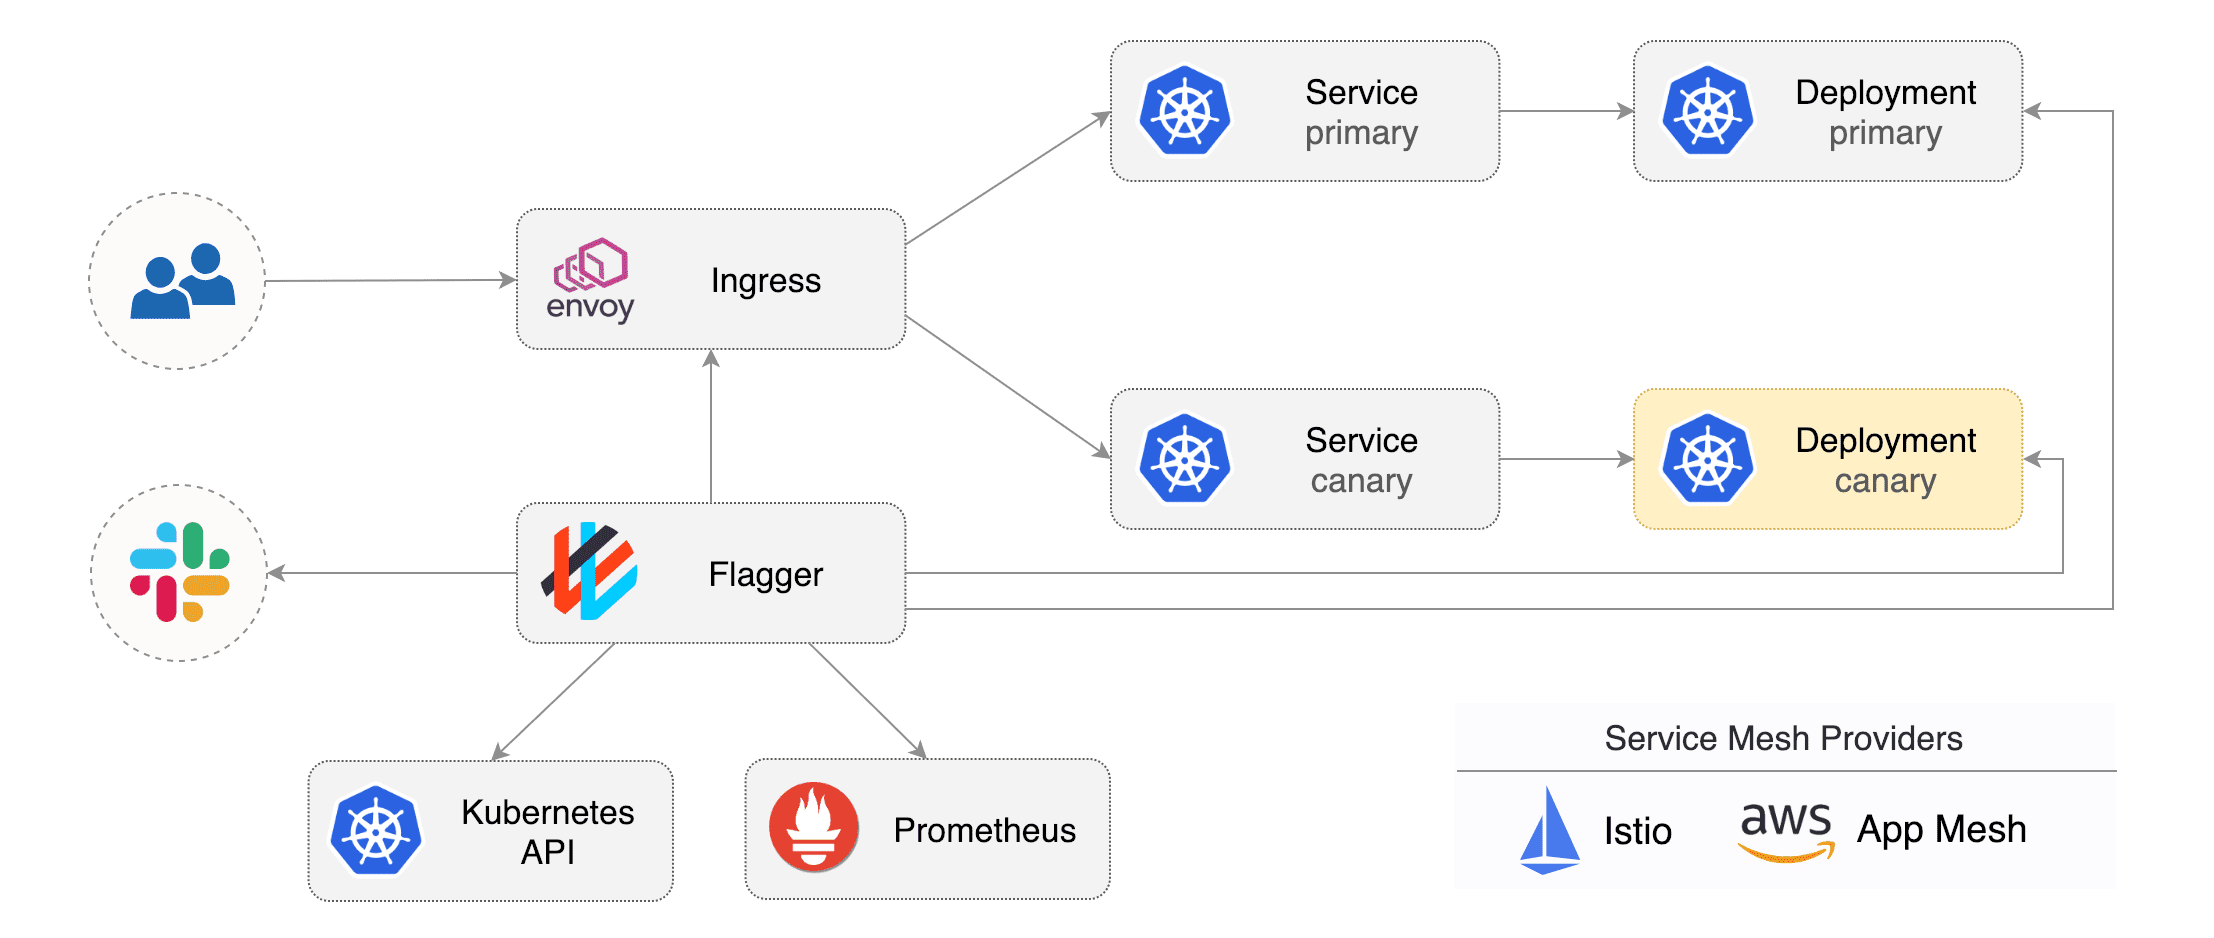
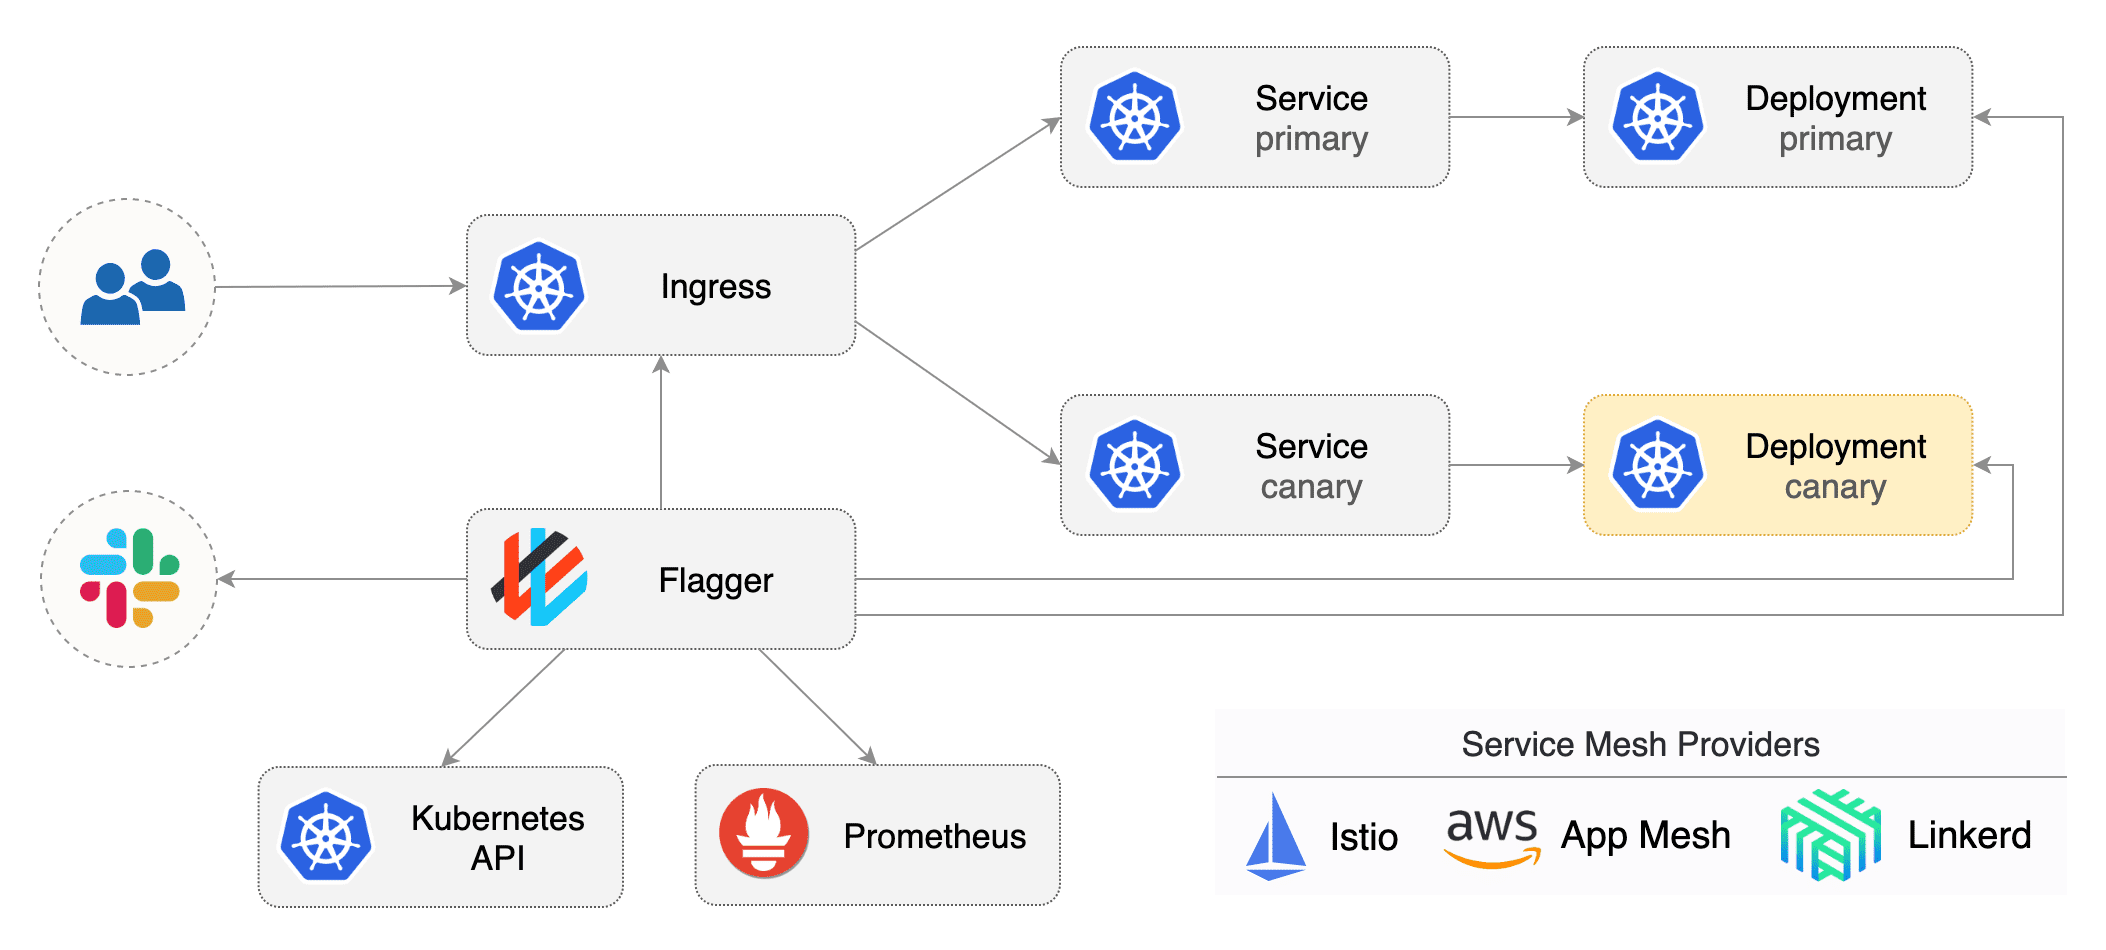
Add Linkerd to docs

diff --git a/README.md b/README.md
@@ -7,13 +7,13 @@
 [![release](https://img.shields.io/github/release/weaveworks/flagger/all.svg)](https://github.com/weaveworks/flagger/releases)
 
 Flagger is a Kubernetes operator that automates the promotion of canary deployments
-using Istio, App Mesh, NGINX or Gloo routing for traffic shifting and Prometheus metrics for canary analysis.
+using Istio, Linkerd, App Mesh, NGINX or Gloo routing for traffic shifting and Prometheus metrics for canary analysis.
 The canary analysis can be extended with webhooks for running acceptance tests,
 load tests or any other custom validation.
 
 Flagger implements a control loop that gradually shifts traffic to the canary while measuring key performance
 indicators like HTTP requests success rate, requests average duration and pods health.
-Based on analysis of the KPIs a canary is promoted or aborted, and the analysis result is published to Slack.
+Based on analysis of the KPIs a canary is promoted or aborted, and the analysis result is published to Slack or MS Teams.
 
 ![flagger-overview](https://raw.githubusercontent.com/weaveworks/flagger/master/docs/diagrams/flagger-canary-overview.png)
 
@@ -39,6 +39,7 @@ Flagger documentation can be found at [docs.flagger.app](https://docs.flagger.ap
 * Usage
   * [Istio canary deployments](https://docs.flagger.app/usage/progressive-delivery)
   * [Istio A/B testing](https://docs.flagger.app/usage/ab-testing)
+  * [Linkerd canary deployments](https://docs.flagger.app/usage/linkerd-progressive-delivery)
   * [App Mesh canary deployments](https://docs.flagger.app/usage/appmesh-progressive-delivery)
   * [NGINX ingress controller canary deployments](https://docs.flagger.app/usage/nginx-progressive-delivery)
   * [Gloo ingress controller canary deployments](https://docs.flagger.app/usage/gloo-progressive-delivery)
@@ -155,19 +156,19 @@ For more details on how the canary analysis and promotion works please [read the
 
 ## Features
 
-| Feature                                      | Istio              | App Mesh           | NGINX              | Gloo               |
-| -------------------------------------------- | ------------------ | ------------------ |------------------  |------------------  |
-| Canary deployments (weighted traffic)        | :heavy_check_mark: | :heavy_check_mark: | :heavy_check_mark: | :heavy_check_mark: |
-| A/B testing (headers and cookies filters)    | :heavy_check_mark: | :heavy_minus_sign: | :heavy_check_mark: | :heavy_minus_sign: |
-| Webhooks (acceptance/load testing)           | :heavy_check_mark: | :heavy_check_mark: | :heavy_check_mark: | :heavy_check_mark: |
-| Request success rate check (L7 metric)       | :heavy_check_mark: | :heavy_check_mark: | :heavy_check_mark: | :heavy_check_mark: |
-| Request duration check (L7 metric)           | :heavy_check_mark: | :heavy_minus_sign: | :heavy_check_mark: | :heavy_check_mark: |
-| Custom promql checks                         | :heavy_check_mark: | :heavy_check_mark: | :heavy_check_mark: | :heavy_check_mark: |
-| Traffic policy, CORS, retries and timeouts   | :heavy_check_mark: | :heavy_minus_sign: | :heavy_minus_sign: | :heavy_minus_sign: |
+| Feature                                      | Istio              | Linkerd            | App Mesh           | NGINX              | Gloo               |
+| -------------------------------------------- | ------------------ | ------------------ |------------------  |------------------  |------------------  |
+| Canary deployments (weighted traffic)        | :heavy_check_mark: | :heavy_check_mark: | :heavy_check_mark: | :heavy_check_mark: | :heavy_check_mark: |
+| A/B testing (headers and cookies filters)    | :heavy_check_mark: | :heavy_minus_sign: | :heavy_minus_sign: | :heavy_check_mark: | :heavy_minus_sign: |
+| Webhooks (acceptance/load testing)           | :heavy_check_mark: | :heavy_check_mark: | :heavy_check_mark: | :heavy_check_mark: | :heavy_check_mark: |
+| Request success rate check (L7 metric)       | :heavy_check_mark: | :heavy_check_mark: | :heavy_check_mark: | :heavy_check_mark: | :heavy_check_mark: |
+| Request duration check (L7 metric)           | :heavy_check_mark: | :heavy_minus_sign: | :heavy_check_mark: | :heavy_check_mark: | :heavy_check_mark: |
+| Custom promql checks                         | :heavy_check_mark: | :heavy_check_mark: | :heavy_check_mark: | :heavy_check_mark: | :heavy_check_mark: |
+| Traffic policy, CORS, retries and timeouts   | :heavy_check_mark: | :heavy_minus_sign: | :heavy_minus_sign: | :heavy_minus_sign: | :heavy_minus_sign: |
 
 ## Roadmap
 
-* Integrate with other service mesh technologies like Linkerd v2
+* Integrate with other ingress controllers like Contour, HAProxy, ALB
 * Add support for comparing the canary metrics to the primary ones and do the validation based on the derivation between the two
 
 ## Contributing

diff --git a/docs/gitbook/faq.md b/docs/gitbook/faq.md
@@ -6,11 +6,13 @@
 
 Flagger can run automated application analysis, promotion and rollback for the following deployment strategies:
 * Canary (progressive traffic shifting)
+    * Istio, Linkerd, App Mesh, NGINX, Gloo
 * A/B Testing (HTTP headers and cookies traffic routing)
+    * Istio, NGINX
 * Blue/Green (traffic switch)
+    * Kubernetes CNI
 
-For canary deployments you'll need a Layer 7 traffic management solution like a service mesh (Istio, App Mesh) or an ingress controller (NGINX, Gloo).
-For A/B testing you'll need a Layer 7 traffic management solution that's capable of routing requests based on HTTP headers and cookies (Istio, NGINX).
+For Canary deployments and A/B testing you'll need a Layer 7 traffic management solution like a service mesh or an ingress controller.
 For Blue/Green deployments no service mesh or ingress controller is required.
 
 **When should I use A/B testing instead of progressive traffic shifting?**

diff --git a/docs/gitbook/how-it-works.md b/docs/gitbook/how-it-works.md
@@ -2,7 +2,7 @@
 
 [Flagger](https://github.com/weaveworks/flagger) takes a Kubernetes deployment and optionally 
 a horizontal pod autoscaler \(HPA\) and creates a series of objects 
-\(Kubernetes deployments, ClusterIP services and Istio or App Mesh virtual services\) to drive the canary analysis and promotion. 
+\(Kubernetes deployments, ClusterIP services, virtual service, traffic split or ingress\) to drive the canary analysis and promotion. 
 
 ![Flagger Canary Process](https://raw.githubusercontent.com/weaveworks/flagger/master/docs/diagrams/flagger-canary-hpa.png)
 
@@ -18,7 +18,7 @@ metadata:
   namespace: test
 spec:
   # service mesh provider (optional)
-  # can be: kubernetes, istio, appmesh, smi, nginx, gloo, supergloo
+  # can be: kubernetes, istio, linkerd, appmesh, nginx, gloo, supergloo
   # use the kubernetes provider for Blue/Green style deployments
   provider: istio
   # deployment reference

diff --git a/docs/gitbook/SUMMARY.md b/docs/gitbook/SUMMARY.md
@@ -15,6 +15,7 @@
 
 * [Istio Canary Deployments](usage/progressive-delivery.md)
 * [Istio A/B Testing](usage/ab-testing.md)
+* [Linkerd Canary Deployments](usage/linkerd-progressive-delivery.md)
 * [App Mesh Canary Deployments](usage/appmesh-progressive-delivery.md)
 * [NGINX Canary Deployments](usage/nginx-progressive-delivery.md)
 * [Gloo Canary Deployments](usage/gloo-progressive-delivery.md)
